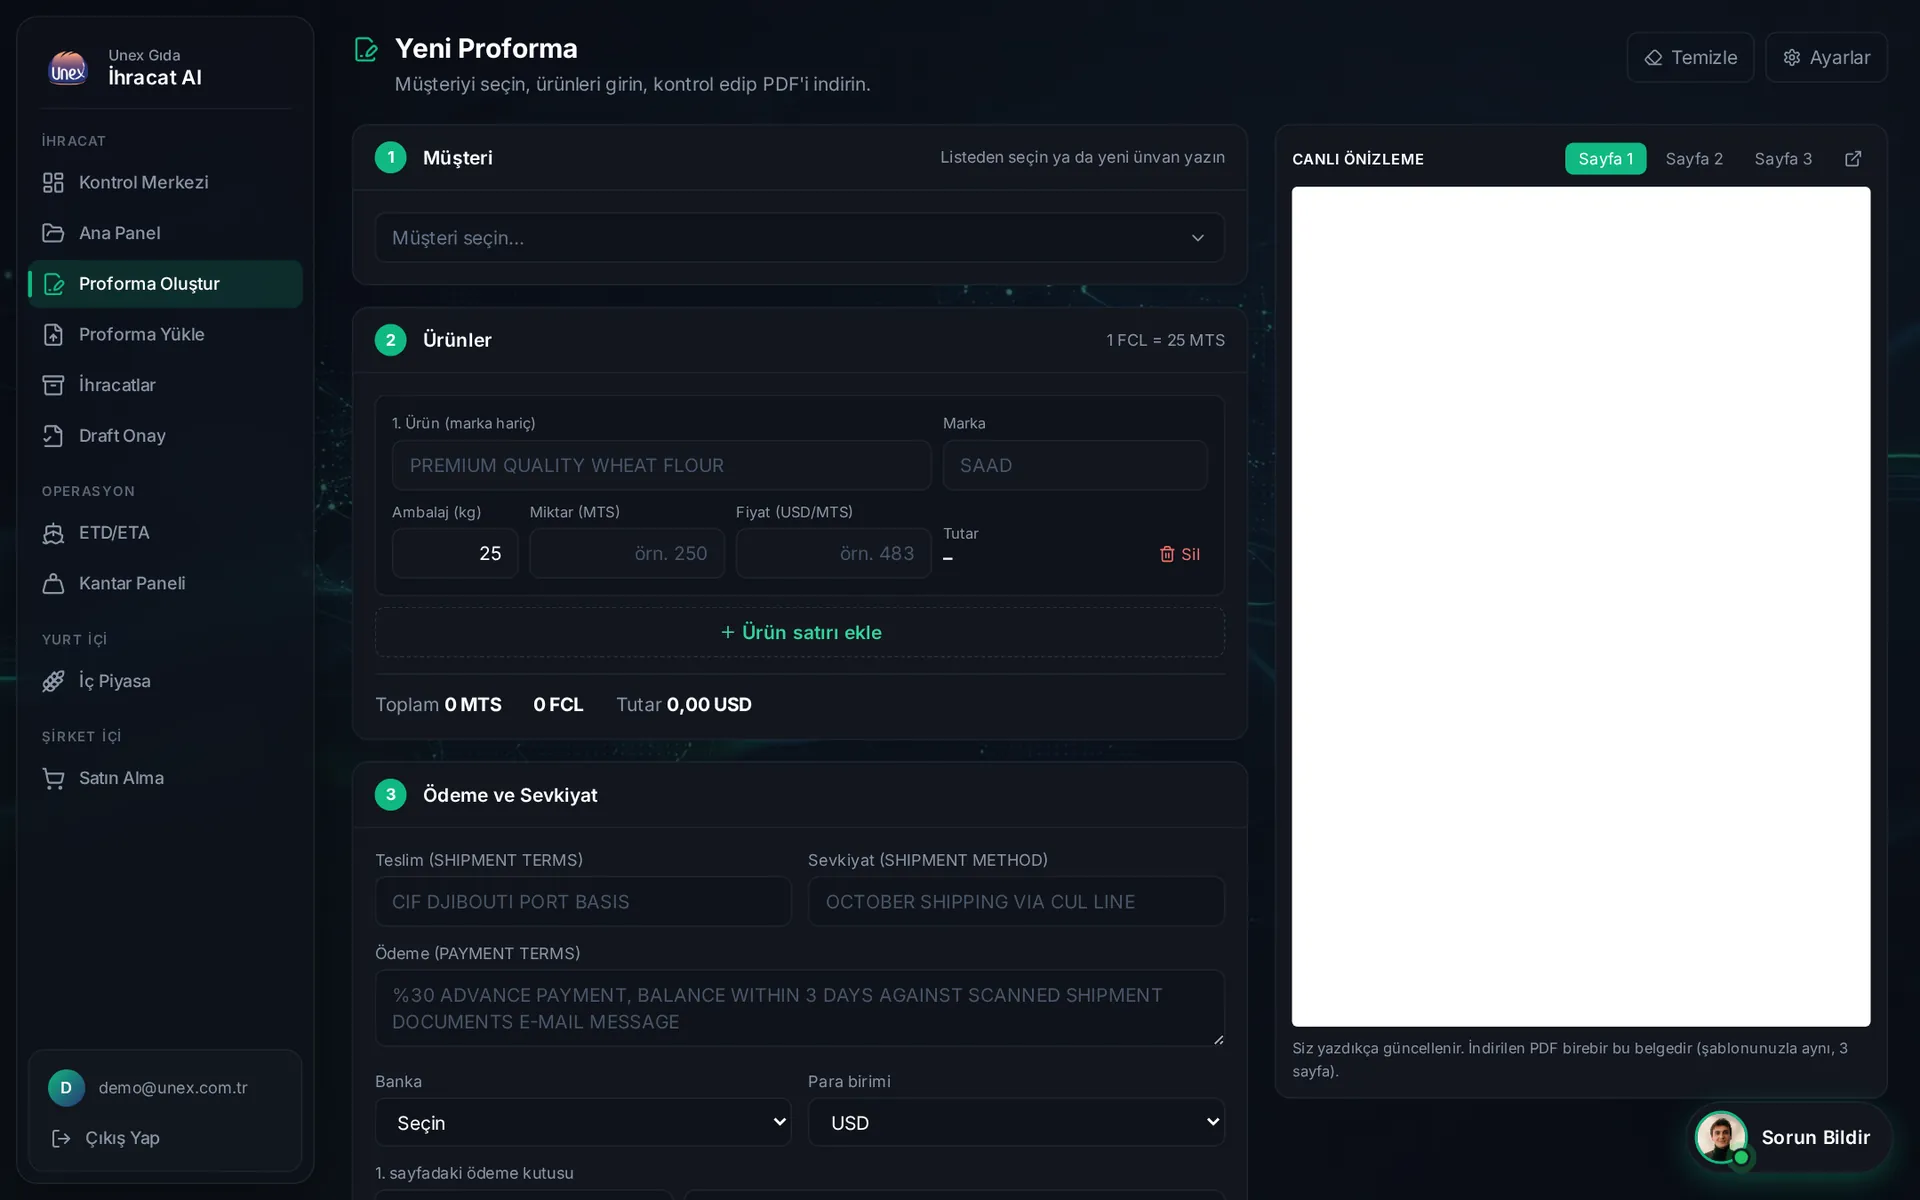
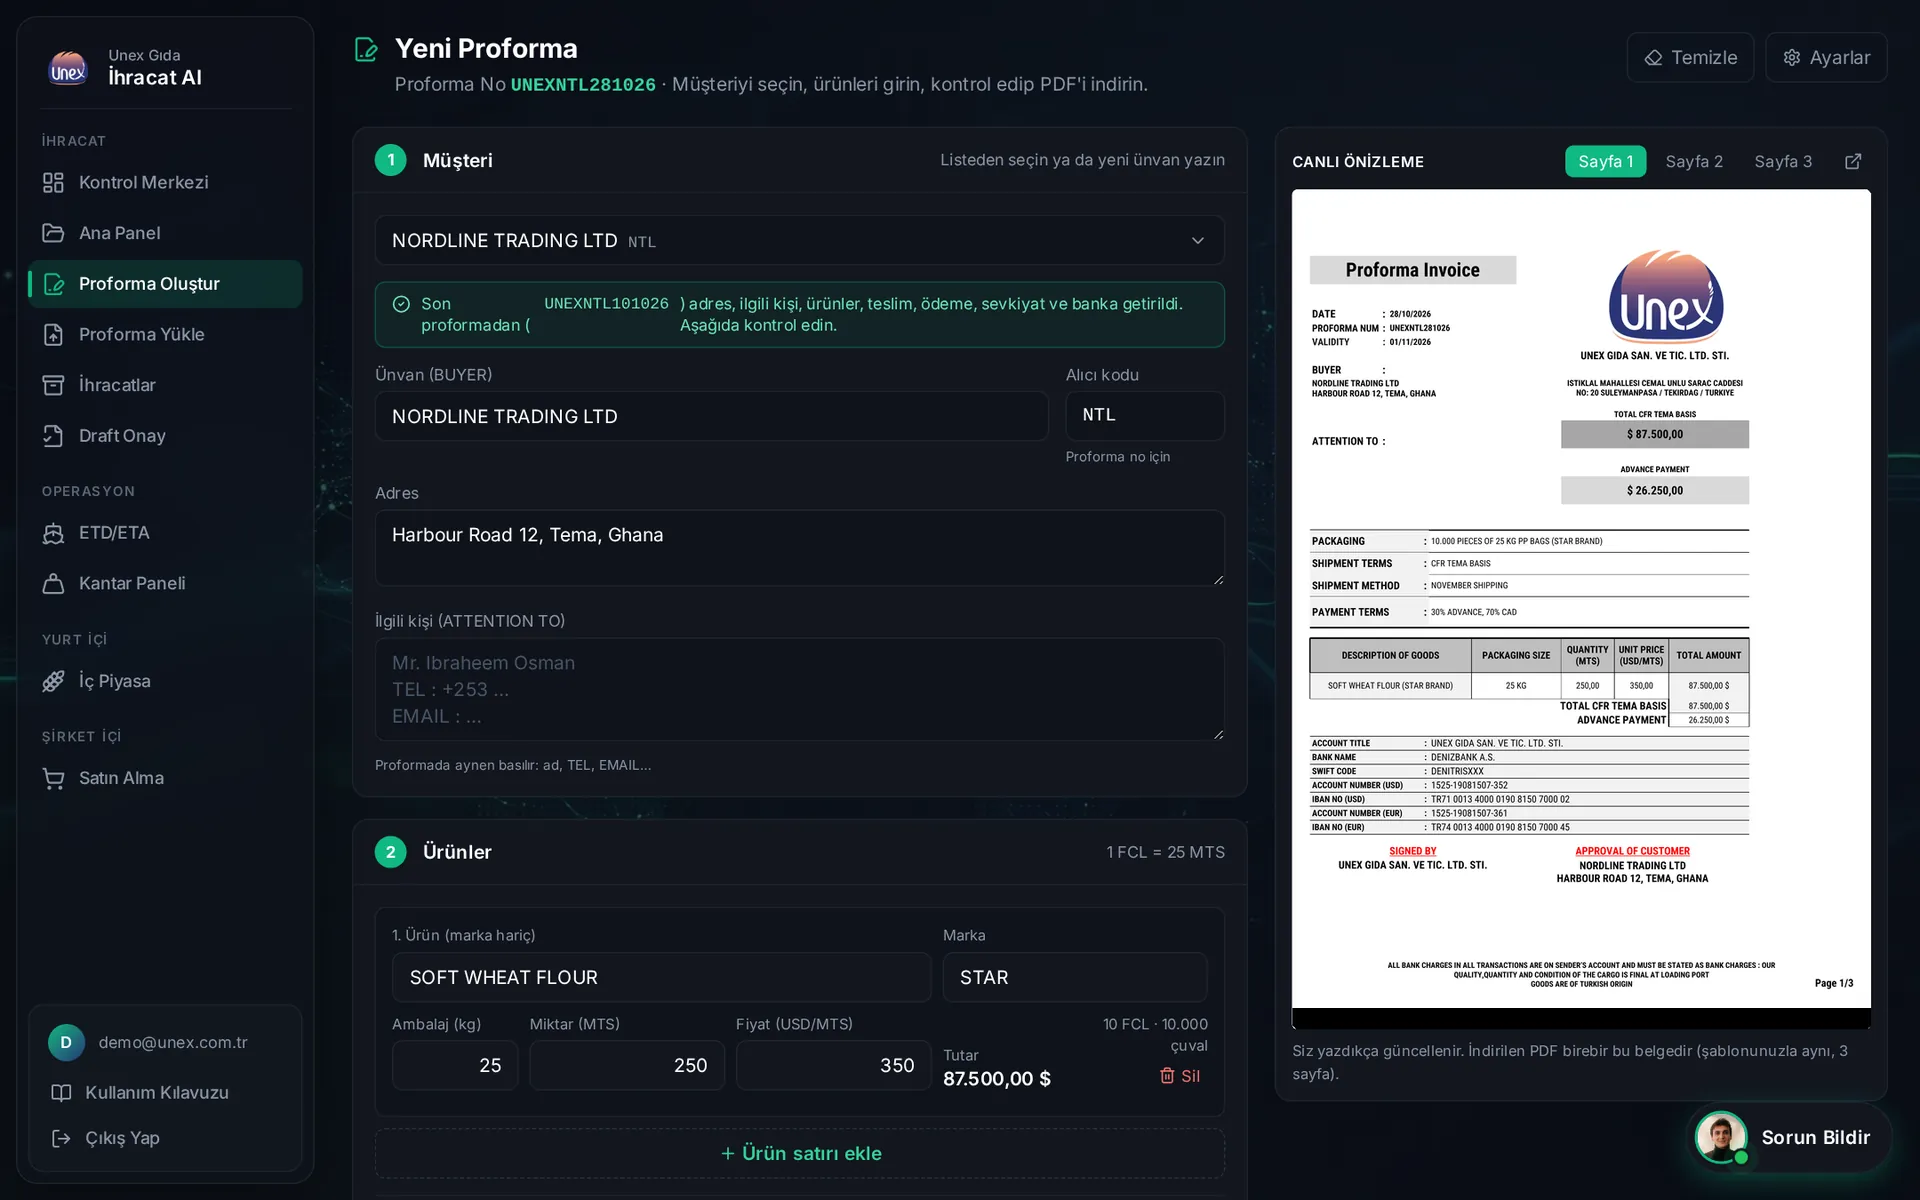
Kılavuz: Proforma Oluştur ekranında dolu form ve canlı proforma önizlemesi (gerçek PDF çıktısı)

diff --git a/lib/kilavuz/konular.ts b/lib/kilavuz/konular.ts
@@ -62,8 +62,8 @@ export const KILAVUZ_KONULARI: KilavuzKonusu[] = [
       { baslik: "Tek ekranda proforma", metin: "Müşteriye gidecek proformayı tek ekranda hazırlarsınız. Sağda, indireceğiniz PDF'in kendisi canlı olarak çizilir." },
       { nokta: "musteri", baslik: "1 · Müşteri", metin: "Listeden müşteriyi seçin ya da yeni ünvanı yazın. Son proformasındaki adres, ürünler, teslim, ödeme ve banka bilgileri kendiliğinden gelir." },
       { nokta: "urunler", baslik: "2 · Ürünler", metin: "Ürün, marka, ambalaj, miktar (MTS) ve fiyatı girin; tutar, FCL ve çuval sayısı otomatik hesaplanır. Yeni kalem için “Ürün satırı ekle”." },
-      { nokta: "odeme", baslik: "3 · Ödeme ve Sevkiyat", metin: "Teslim şekli, sevkiyat, ödeme metni, banka ve para birimi. Proforma no, tarih ve paketleme satırı otomatik oluşur; elle değiştirirseniz “Otomatik” ile geri alırsınız." },
-      { nokta: "onizleme", baslik: "Canlı önizleme", metin: "Her değişiklik önizlemeye anında yansır. Alttaki eksik listesi boşalınca “Taslak PDF İndir” ile dosyayı alın." },
+      { nokta: "odeme", baslik: "3 · Ödeme ve Sevkiyat", metin: "Teslim şekli, sevkiyat, ödeme metni, banka ve para birimi (formun altında). Önizlemede bu satırlara basılır. Proforma no, tarih ve paketleme otomatik oluşur; elle değiştirirseniz “Otomatik” ile geri alırsınız." },
+      { nokta: "onizleme", baslik: "Canlı önizleme", metin: "Sağdaki belge indireceğiniz PDF'in kendisidir; her değişiklik anında yansır (Sayfa 1-2-3). Alttaki eksik listesi boşalınca “Taslak PDF İndir” ile dosyayı alın." },
     ],
   },
   {

diff --git a/lib/kilavuz/ekran-noktalari.ts b/lib/kilavuz/ekran-noktalari.ts
@@ -12,10 +12,11 @@ export const EKRAN_NOKTALARI: Record<string, Record<string, EkranNoktasi>> = {
     sorun: { x: 87.78, y: 91.78, w: 10.83, h: 6 },
   },
   "proforma-olustur": {
-    musteri: { x: 18.33, y: 10.33, w: 46.67, h: 13.44 },
-    urunler: { x: 18.33, y: 25.56, w: 46.67, h: 36.11 },
-    odeme: { x: 18.33, y: 63.44, w: 46.67, h: 36.56 },
-    onizleme: { x: 66.39, y: 10.33, w: 31.94, h: 81.22 },
+    musteri: { x: 18.33, y: 10.56, w: 46.67, h: 55.89 },
+    urunler: { x: 18.33, y: 68.22, w: 46.67, h: 31.78 },
+    // odeme: ELLE (28.10.2026) - onizlemedeki PDF'in PACKAGING / SHIPMENT / PAYMENT TERMS satirlari
+    odeme: { x: 67.4, y: 43.7, w: 24, h: 8.6 },
+    onizleme: { x: 66.39, y: 10.56, w: 31.94, h: 81.22 },
   },
   "proforma-yukle": {
     asistan: { x: 18.33, y: 10.78, w: 62.22, h: 57.61 },

diff --git a/CLAUDE.md b/CLAUDE.md
@@ -2190,6 +2190,11 @@ ayarlarından çözülür — Claude'un commit yazarlığını değiştirmesiyle
   (çekim + Playwright ile öğe kutuları → json), `isaret.py` (kontrol görseli). Bir sayfa
   görünümü değişirse: build → `node cek.mjs ham noktalar.json` → webp + ts üretimi (bu oturumdaki
   python betiği) → konular.ts'te `nokta` anahtarları aynı kalmalı.
+  PROFORMA OLUŞTUR ekranı (28.10.2026, kullanıcı: "burada proforma gözükmeli"): çekimde kurgusal
+  müşteri seçilip form doldurulur (`once`); başsız Chromium PDF çizmediği için önizlemedeki
+  PDF'in KENDİSİ (blob) alınır, 1. sayfası `pdftoppm` ile aynı kutuya yerleştirilir
+  (`kl/pdf_yerlestir.py`; tek ekran: `node cek.mjs ham x.json proforma-olustur`). "odeme"
+  noktası ELLE (PDF'teki şartlar satırları; form uzadığı için kutusu ekran dışına düşüyor).
 - Diğer: Kontrol Merkezi "Otomatik Özet" cümleleri sohbet gibi SIRAYLA yazılır (`OzetKarti`,
   yer kayması yok, filtre değişince yeniden yazmaz). Menü "Proformalar" → "Proforma Oluştur"
   (adres/yetki aynı; Yetkilendirme etiketi de).
